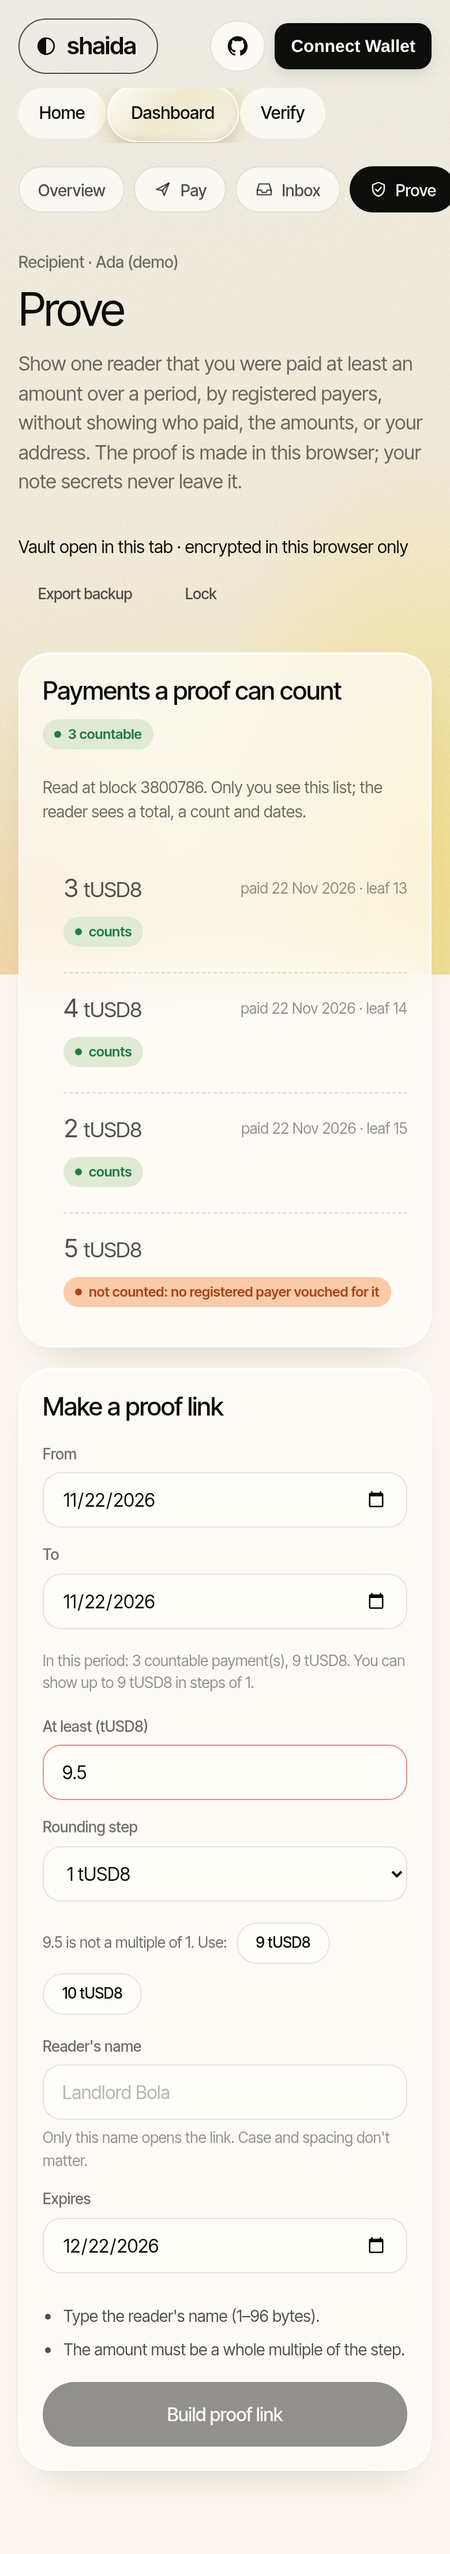
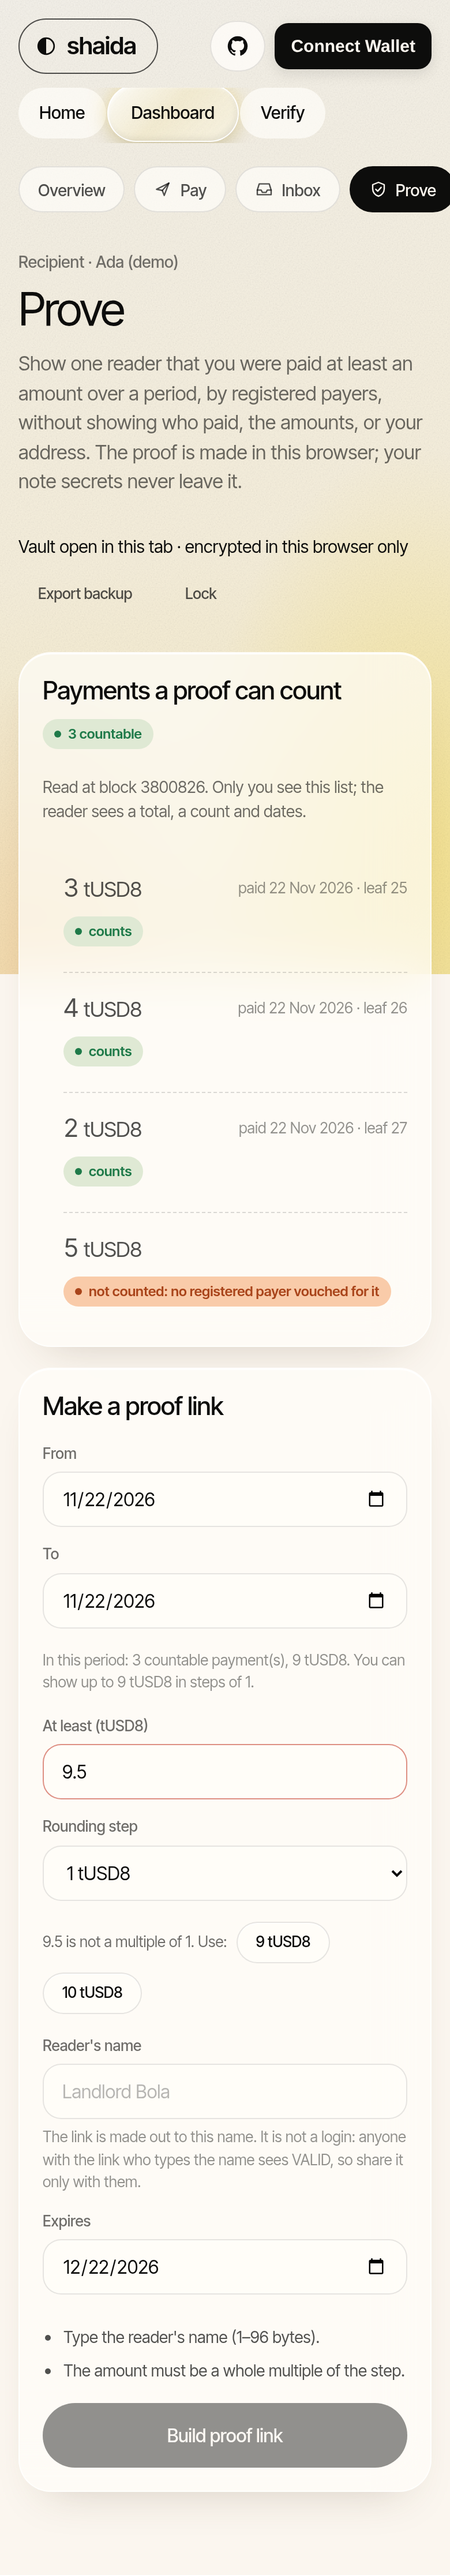
Evidence: acts 4–6 through the UI at 390 and 1280 px on the final wording (CL37, CL38)
What changed:
- evidence/ui: reports, facts and screenshots of both widths redone on
  e983d15 (landing, inbox, prove with suggestions, link, shared, dashboard
  with all 5 checks ok, verify VALID with on-chain check and record, three
  attacks). Browser proving with the final key: 18,518 ms (390 px),
  20,507 ms (1280 px); earlier runs 15,384 / 17,517 / 19,862 ms stay in the
  history. The 390 px run that failed at the overview step stays on record.
- CLAIMS: CL37 (acts 4–6 through the UI at both widths) and CL38 (tokens-only
  colours, Muuve's style, nothing copied) PROVEN.
- README: acts 2–6 on the fork; the income-proof pages and the landing and
  dashboard listed as built; only the Aevum deployment is left not built.

Machine: Intel i3 M 370 2.40 GHz, 4 threads, 8 GiB; Chromium 153 headless.
Verified: both UI runs passed; node tools/check-claims.mjs (33 claims,
29 PROVEN).
Tests: unchanged (forge unit 57, fork 12, circuit 56, indexer 11, relayer
25, pay 12, ceremony 14).

diff --git a/evidence/ui/report-390.md b/evidence/ui/report-390.md
@@ -4,26 +4,26 @@ Generated by `node tools/ui-flow-acts-4-6.mjs --width 390`. Personas are demo.
 
 Result: passed
 
-- 2026-11-22T04:43:18.690Z screenshot 390-01-landing.png at 390 px (horizontal overflow 0px)
-- 2026-11-22T04:50:01.323Z paid Ada's browser receive address: 12 txs; Mallory (unregistered) via the relayer: deposit PayerNotRegistered, vouched pay PayerNotRegistered
-- 2026-11-22T04:52:23.960Z inbox: 3 swept; Mallory's: not vouched by a registered payer
-- 2026-11-22T04:52:25.353Z screenshot 390-02-inbox-swept.png at 390 px (horizontal overflow 0px)
-- 2026-11-22T04:53:44.219Z attack: payment from the unregistered wallet → "5 tUSD8 not counted: no registered payer vouched for it"
-- 2026-11-22T04:53:44.252Z off-step threshold 9.5 → 9.5 is not a multiple of 1. Use: 9 tUSD8 10 tUSD8
-- 2026-11-22T04:53:46.010Z screenshot 390-03-prove-suggest.png at 390 px (horizontal overflow 0px)
-- 2026-11-22T04:54:04.751Z proof link built in the browser: proving 15384 ms with the final key; 1609 chars
-- 2026-11-22T04:54:07.032Z screenshot 390-04-prove-link.png at 390 px (horizontal overflow 0px)
-- 2026-11-22T04:55:49.331Z screenshot 390-05-shared.png at 390 px (horizontal overflow 0px)
-- 2026-11-22T04:56:45.108Z screenshot 390-06-dashboard.png at 390 px (horizontal overflow 0px)
-- 2026-11-22T04:57:44.117Z Bola: VALID 
-- 2026-11-22T04:57:44.557Z check on-chain: IncomeVerifier.check passed for 1 proof at block 3800786. Nothing was sent.
-- 2026-11-22T04:57:50.645Z record check: Recorded in block 3800787:
[1 lines of base64/hex data omitted]
-- 2026-11-22T04:57:51.956Z screenshot 390-07-verify-valid.png at 390 px (horizontal overflow 0px)
-- 2026-11-22T05:00:13.446Z attack: edited threshold (+1 tUSD8 in the link) → ProofInvalid
-- 2026-11-22T05:00:14.521Z screenshot 390-08-attack-edited.png at 390 px (horizontal overflow 0px)
-- 2026-11-22T05:00:17.357Z attack: a different reader (Tenant Chidi) → WrongReader
-- 2026-11-22T05:00:18.358Z screenshot 390-09-attack-reader.png at 390 px (horizontal overflow 0px)
-- 2026-11-22T05:00:23.804Z attack: the link opened with the browser clock 31 days ahead → ProofExpired
-- 2026-11-22T05:00:24.940Z screenshot 390-10-attack-expired.png at 390 px (horizontal overflow 0px)
-- 2026-11-22T05:00:36.920Z machine: Intel(R) Core(TM) i3 CPU       M 370  @ 2.40GHz, 4 threads, 8 GiB RAM; Chromium 153.0.8010.52 Arch Linux headless
+- 2026-11-22T05:09:01.591Z screenshot 390-01-landing.png at 390 px (horizontal overflow 0px)
+- 2026-11-22T05:10:20.437Z paid Ada's browser receive address: 12 txs; Mallory (unregistered) via the relayer: deposit PayerNotRegistered, vouched pay PayerNotRegistered
+- 2026-11-22T05:10:41.577Z inbox: 3 swept; Mallory's: not vouched by a registered payer
+- 2026-11-22T05:10:43.066Z screenshot 390-02-inbox-swept.png at 390 px (horizontal overflow 0px)
+- 2026-11-22T05:10:46.608Z attack: payment from the unregistered wallet → "5 tUSD8 not counted: no registered payer vouched for it"
+- 2026-11-22T05:10:46.653Z off-step threshold 9.5 → 9.5 is not a multiple of 1. Use: 9 tUSD8 10 tUSD8
+- 2026-11-22T05:10:48.315Z screenshot 390-03-prove-suggest.png at 390 px (horizontal overflow 0px)
+- 2026-11-22T05:11:09.510Z proof link built in the browser: proving 18518 ms with the final key; 1613 chars
+- 2026-11-22T05:11:12.105Z screenshot 390-04-prove-link.png at 390 px (horizontal overflow 0px)
+- 2026-11-22T05:11:15.786Z screenshot 390-05-shared.png at 390 px (horizontal overflow 0px)
+- 2026-11-22T05:11:18.972Z screenshot 390-06-dashboard.png at 390 px (horizontal overflow 0px)
+- 2026-11-22T05:11:24.503Z Bola: VALID 
+- 2026-11-22T05:11:24.932Z check on-chain: IncomeVerifier.check passed for 1 proof at block 3800826. Nothing was sent.
+- 2026-11-22T05:11:25.755Z record check: Recorded in block 3800827:
[1 lines of base64/hex data omitted]
+- 2026-11-22T05:11:27.646Z screenshot 390-07-verify-valid.png at 390 px (horizontal overflow 0px)
+- 2026-11-22T05:11:31.429Z attack: edited threshold (+1 tUSD8 in the link) → ProofInvalid
+- 2026-11-22T05:11:32.560Z screenshot 390-08-attack-edited.png at 390 px (horizontal overflow 0px)
+- 2026-11-22T05:11:35.877Z attack: a different reader (Tenant Chidi) → WrongReader
+- 2026-11-22T05:11:37.036Z screenshot 390-09-attack-reader.png at 390 px (horizontal overflow 0px)
+- 2026-11-22T05:11:42.656Z attack: the link opened with the browser clock 31 days ahead → ProofExpired
+- 2026-11-22T05:11:43.942Z screenshot 390-10-attack-expired.png at 390 px (horizontal overflow 0px)
+- 2026-11-22T05:11:46.524Z machine: Intel(R) Core(TM) i3 CPU       M 370  @ 2.40GHz, 4 threads, 8 GiB RAM; Chromium 153.0.8010.52 Arch Linux headless

diff --git a/README.md b/README.md
@@ -11,7 +11,7 @@ Private payments run on [Gloam](https://github.com/gloamtrade/gloam) (MIT), a pi
 Every statement here maps to a row in [CLAIMS.md](CLAIMS.md); `make gate` fails if one is not PROVEN.
 <!-- CL24 -->
 
-PRD §11 steps 1–2 and acts 2–3 run on a local fork <!-- CL02 -->; nothing is deployed on Aevum testnet yet. <!-- CL03 -->
+PRD §11 steps 1–2 and acts 2–6 run on a local fork <!-- CL02 --> <!-- CL35 -->; nothing is deployed on Aevum testnet yet. <!-- CL03 -->
 - Contracts: `PayerRegistry` <!-- CL04 -->, `ShaidaDepositor` (gasless EIP-3009 + standard deposit) <!-- CL05 -->,
   `ShaidaLedger` (vouch and sweep leaves, one vouch per payment, `lateVouch` repair for a front-run pay: DECISIONS D9)
   <!-- CL06 -->, on Gloam's pool with its final-ceremony verifiers. <!-- CL07 -->
@@ -39,13 +39,21 @@ PRD §11 steps 1–2 and acts 2–3 run on a local fork <!-- CL02 -->; nothing i
 - Relayer (`packages/shaida-relay`, `/api/relay/<fn>`): one route per contract function (deposit, vouched-pay,
   late-vouch, sweep, memo), rails before simulation, a daily gas budget, persisted records, unknown outcomes never
   resent (D19, D20). <!-- CL20 -->
-- Pay and inbox (`/pay`, `/inbox`, `packages/shaida-pay`): gasless deposit, vouched private pay with a sealed memo,
+- Pay and inbox (`/app/pay`, `/app/inbox`, `packages/shaida-pay`): gasless deposit, vouched private pay with a sealed memo,
   inbox and sweep <!-- CL21 -->, proofs made in the browser with Gloam's final keys <!-- CL22 -->, secrets in an
   encrypted browser vault whose exported backup restores in a fresh browser (D21). <!-- CL23 -->
 - PRD §11 acts 2–3 on the fork: [evidence/acts-2-3-fork.md](evidence/acts-2-3-fork.md) (script, tx hashes) and
   [evidence/ui-fork/](evidence/ui-fork/report.md) (the same flow through the UI at 390 px). <!-- CL02 --> <!-- CL21 -->
 
-Not built yet: the income-proof pages (prove, share, verify), deployment on Aevum testnet. <!-- not-built -->
+- Income proofs (`/app/prove`, `/app/shared`, `/v`): a proof link made in the browser with the ceremony's final key,
+  for a reader name that binds intent, not identity (anyone with the link who types the name sees VALID). <!-- CL36 -->
+  PRD §11 acts 4–6 on the fork: [evidence/acts-4-6-fork.md](evidence/acts-4-6-fork.md) (script) <!-- CL35 --> and
+  [evidence/ui/](evidence/ui/report-390.md) (the same acts through the UI at 390 and 1280 px, with the browser's proving
+  time and screenshots). <!-- CL37 -->
+- Web: a landing page `/` and a dashboard `/app` in a design system taken from Muuve's style ([DESIGN.md](DESIGN.md),
+  D25, D26). <!-- CL38 -->
+
+Not built yet: deployment on Aevum testnet. <!-- not-built -->
 
 ## Commands
 ```bash

diff --git a/CLAIMS.md b/CLAIMS.md
@@ -36,5 +36,7 @@ title). Refuted or demoted claims stay here, marked NOT PROVEN, with the reason 
[1 lines of base64/hex data omitted]
 | CL35 | PRD §11 acts 4–6 run on a local fork with the ceremony's final key (scripted): Ada (demo) proves ≥ 9 tUSD8 from her 3 swept payments for the reader name "Landlord Bola", expiring in 30 days; the link verifies VALID; an edited threshold is ProofInvalid, another reader name WrongReader, a late opening ProofExpired; a payment from an unregistered wallet is not counted even when swept; one IncomeVerifier.check and one attest pass on chain. | PROVEN | `evidence/acts-4-6-fork.md` `evidence/acts-4-6-fork.json` `packages/shaida-pay/scripts/exit-acts-4-6.ts` `test:P10` |
 | CL36 | The reader of a proof link is not authenticated: the name normalises (trim, case, spaces), so it binds intent, not identity, and anyone with the link who types the name gets VALID. | PROVEN | `LIMITS.md` `test:W01` `test:X11` `packages/shaida-proofs/src/reader.ts` |
+| CL37 | PRD §11 acts 4–6 run through the web UI on a local fork at 390 px and at 1280 px: the proof is made in the browser with the final key (one proof: 18.5 s at 390 px and 20.5 s at 1280 px on an Intel i3 M 370, Chromium 153 headless), the reader sees VALID, Check on-chain passes and Record check is mined; the edited-threshold, other-reader and expired-link attacks are refused by name, and the unregistered payer's payment is shown as not counted; no horizontal overflow at 390 px. | PROVEN | `evidence/ui/report-390.md` `evidence/ui/report-1280.md` `evidence/ui/facts-390.json` `evidence/ui/facts-1280.json` `tools/ui-flow-acts-4-6.mjs` |
+| CL38 | The web app's colours come only from one tokens file, in a design system that follows Muuve's shipped style; nothing is copied from Muuve (no licence), and Shaida uses its own name and mark. | PROVEN | `DESIGN.md` `web/src/app/tokens.css` `tools/lint.mjs` `NOTICE.md` |
 | CL32 | The chain shows only that a registered payer paid someone, not who or how much. | NOT PROVEN | Follows from Gloam's pool design and our events, but no test or analysis here measures what an observer learns. |
 | CL33 | The app works on Aevum testnet (44005) end to end. | NOT PROVEN | Only the fork has been exercised. |

diff --git a/evidence/ui/report-1280.md b/evidence/ui/report-1280.md
@@ -1,0 +1,29 @@
+# UI flow, acts 4–6 on make fork (1280 px)
+
+Generated by `node tools/ui-flow-acts-4-6.mjs --width 1280`. Personas are demo.
+
+Result: passed
+
+- 2026-11-22T05:11:58.095Z screenshot 1280-01-landing.png at 1280 px (horizontal overflow -15px)
+- 2026-11-22T05:13:03.858Z paid Ada's browser receive address: 12 txs; Mallory (unregistered) via the relayer: deposit PayerNotRegistered, vouched pay PayerNotRegistered
+- 2026-11-22T05:13:26.009Z inbox: 3 swept; Mallory's: not vouched by a registered payer
+- 2026-11-22T05:13:27.109Z screenshot 1280-02-inbox-swept.png at 1280 px (horizontal overflow -15px)
+- 2026-11-22T05:13:31.276Z attack: payment from the unregistered wallet → "5 tUSD8 not counted: no registered payer vouched for it"
+- 2026-11-22T05:13:31.322Z off-step threshold 9.5 → 9.5 is not a multiple of 1. Use: 9 tUSD8 10 tUSD8
+- 2026-11-22T05:13:32.473Z screenshot 1280-03-prove-suggest.png at 1280 px (horizontal overflow -15px)
+- 2026-11-22T05:13:55.670Z proof link built in the browser: proving 20507 ms with the final key; 1610 chars
+- 2026-11-22T05:13:57.245Z screenshot 1280-04-prove-link.png at 1280 px (horizontal overflow -15px)
+- 2026-11-22T05:14:01.358Z screenshot 1280-05-shared.png at 1280 px (horizontal overflow 0px)
+- 2026-11-22T05:14:03.971Z screenshot 1280-06-dashboard.png at 1280 px (horizontal overflow -15px)
+- 2026-11-22T05:14:10.164Z Bola: VALID 
+- 2026-11-22T05:14:10.598Z check on-chain: IncomeVerifier.check passed for 1 proof at block 3800846. Nothing was sent.
+- 2026-11-22T05:14:11.439Z record check: Recorded in block 3800847:
[1 lines of base64/hex data omitted]
+- 2026-11-22T05:14:12.497Z screenshot 1280-07-verify-valid.png at 1280 px (horizontal overflow -15px)
+- 2026-11-22T05:14:17.510Z attack: edited threshold (+1 tUSD8 in the link) → ProofInvalid
+- 2026-11-22T05:14:18.332Z screenshot 1280-08-attack-edited.png at 1280 px (horizontal overflow -15px)
+- 2026-11-22T05:14:21.321Z attack: a different reader (Tenant Chidi) → WrongReader
+- 2026-11-22T05:14:22.121Z screenshot 1280-09-attack-reader.png at 1280 px (horizontal overflow -15px)
+- 2026-11-22T05:14:28.031Z attack: the link opened with the browser clock 31 days ahead → ProofExpired
+- 2026-11-22T05:14:28.956Z screenshot 1280-10-attack-expired.png at 1280 px (horizontal overflow -15px)
+- 2026-11-22T05:14:30.800Z machine: Intel(R) Core(TM) i3 CPU       M 370  @ 2.40GHz, 4 threads, 8 GiB RAM; Chromium 153.0.8010.52 Arch Linux headless
